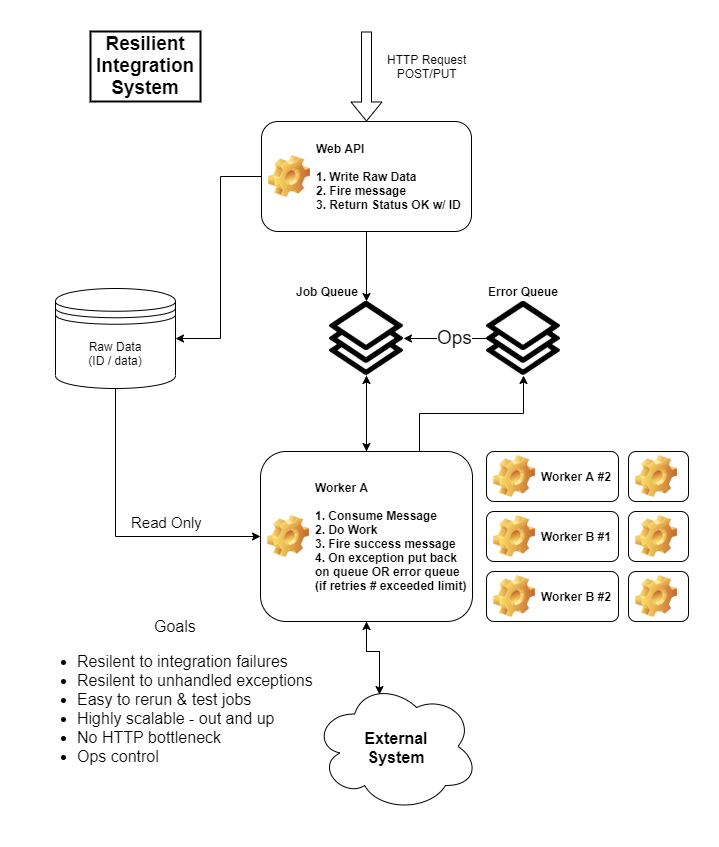
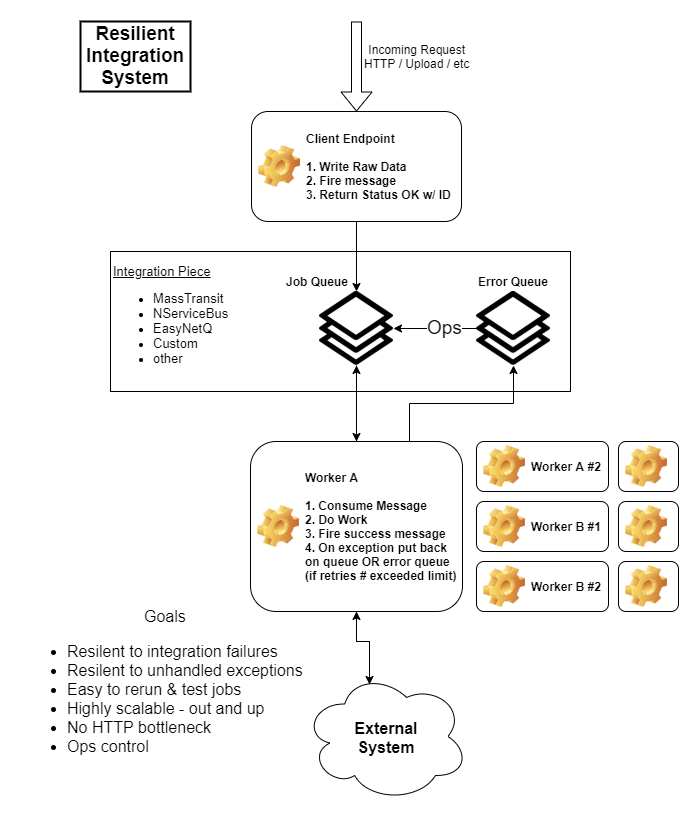
update readme

diff --git a/src/web-api/Program.cs b/src/web-api/Program.cs
@@ -2,6 +2,7 @@ using System;
 using System.Collections.Generic;
 using System.Linq;
 using System.Threading.Tasks;
+using Autofac.Extensions.DependencyInjection;
 using Microsoft.AspNetCore.Hosting;
 using Microsoft.Extensions.Configuration;
 using Microsoft.Extensions.Hosting;
@@ -18,6 +19,7 @@ namespace WebApi
 
         public static IHostBuilder CreateHostBuilder(string[] args) =>
             Host.CreateDefaultBuilder(args)
+                .UseServiceProviderFactory(new AutofacServiceProviderFactory())
                 .ConfigureWebHostDefaults(webBuilder =>
                 {
                     webBuilder.UseStartup<Startup>();

diff --git a/src/workers/worker-a/Program.cs b/src/workers/worker-a/Program.cs
@@ -1,3 +1,4 @@
+using Autofac.Extensions.DependencyInjection;
 using Microsoft.Extensions.DependencyInjection;
 using Microsoft.Extensions.Hosting;
 
@@ -12,6 +13,7 @@ namespace ResilientIntegration.WorkerA
 
         public static IHostBuilder CreateHostBuilder(string[] args) =>
             Host.CreateDefaultBuilder(args)
+                .UseServiceProviderFactory(new AutofacServiceProviderFactory())
                 .ConfigureServices((hostContext, services) =>
                 {
                     services.AddHostedService<Worker>();

diff --git a/README.md b/README.md
@@ -1,6 +1,6 @@
 # resilient-integration
 
-Ironclad integration architecture, developer and ops friendly.
+Ironclad integration architecture, developer and ops friendly. Uses [MassTransit](masstransit-project.com) for integrations.
 
 This project is an example architecture for system integrations. It uses Web API and message queueing to create a system completely resilient to any failures. Message handlers can be easily moved across workers, workers can be scaled up and/or out, and no attempts to run integration processing will ever be lost.
 
@@ -17,11 +17,10 @@ No system (even our own code) is immune to unforeseen errors. By moving failure 
 # Run instructions
 
 - Install prerequisites Node.js, docker, docker-machine, powershell
-- execute RebuildAllDockerImages.sh or .ps1
-- execute .\kubernetes\start-all.sh or .ps1
-- Run the API and workers locally, or in docker
+- From command line, run `docker-compose up`
+- Debug ResilientIntegration.Api (Web), and ResilientIntegration.Worker* (Workers)
 
 # Monitoring
 
-- RabbitMQ: http://localhost:15672/#/channels
-- SEQ: http://localhost:5341/#/events
+- RabbitMQ: http://localhost:15672/#/channels (guest/guest)
+- SEQ: http://localhost:5342/#/events 
